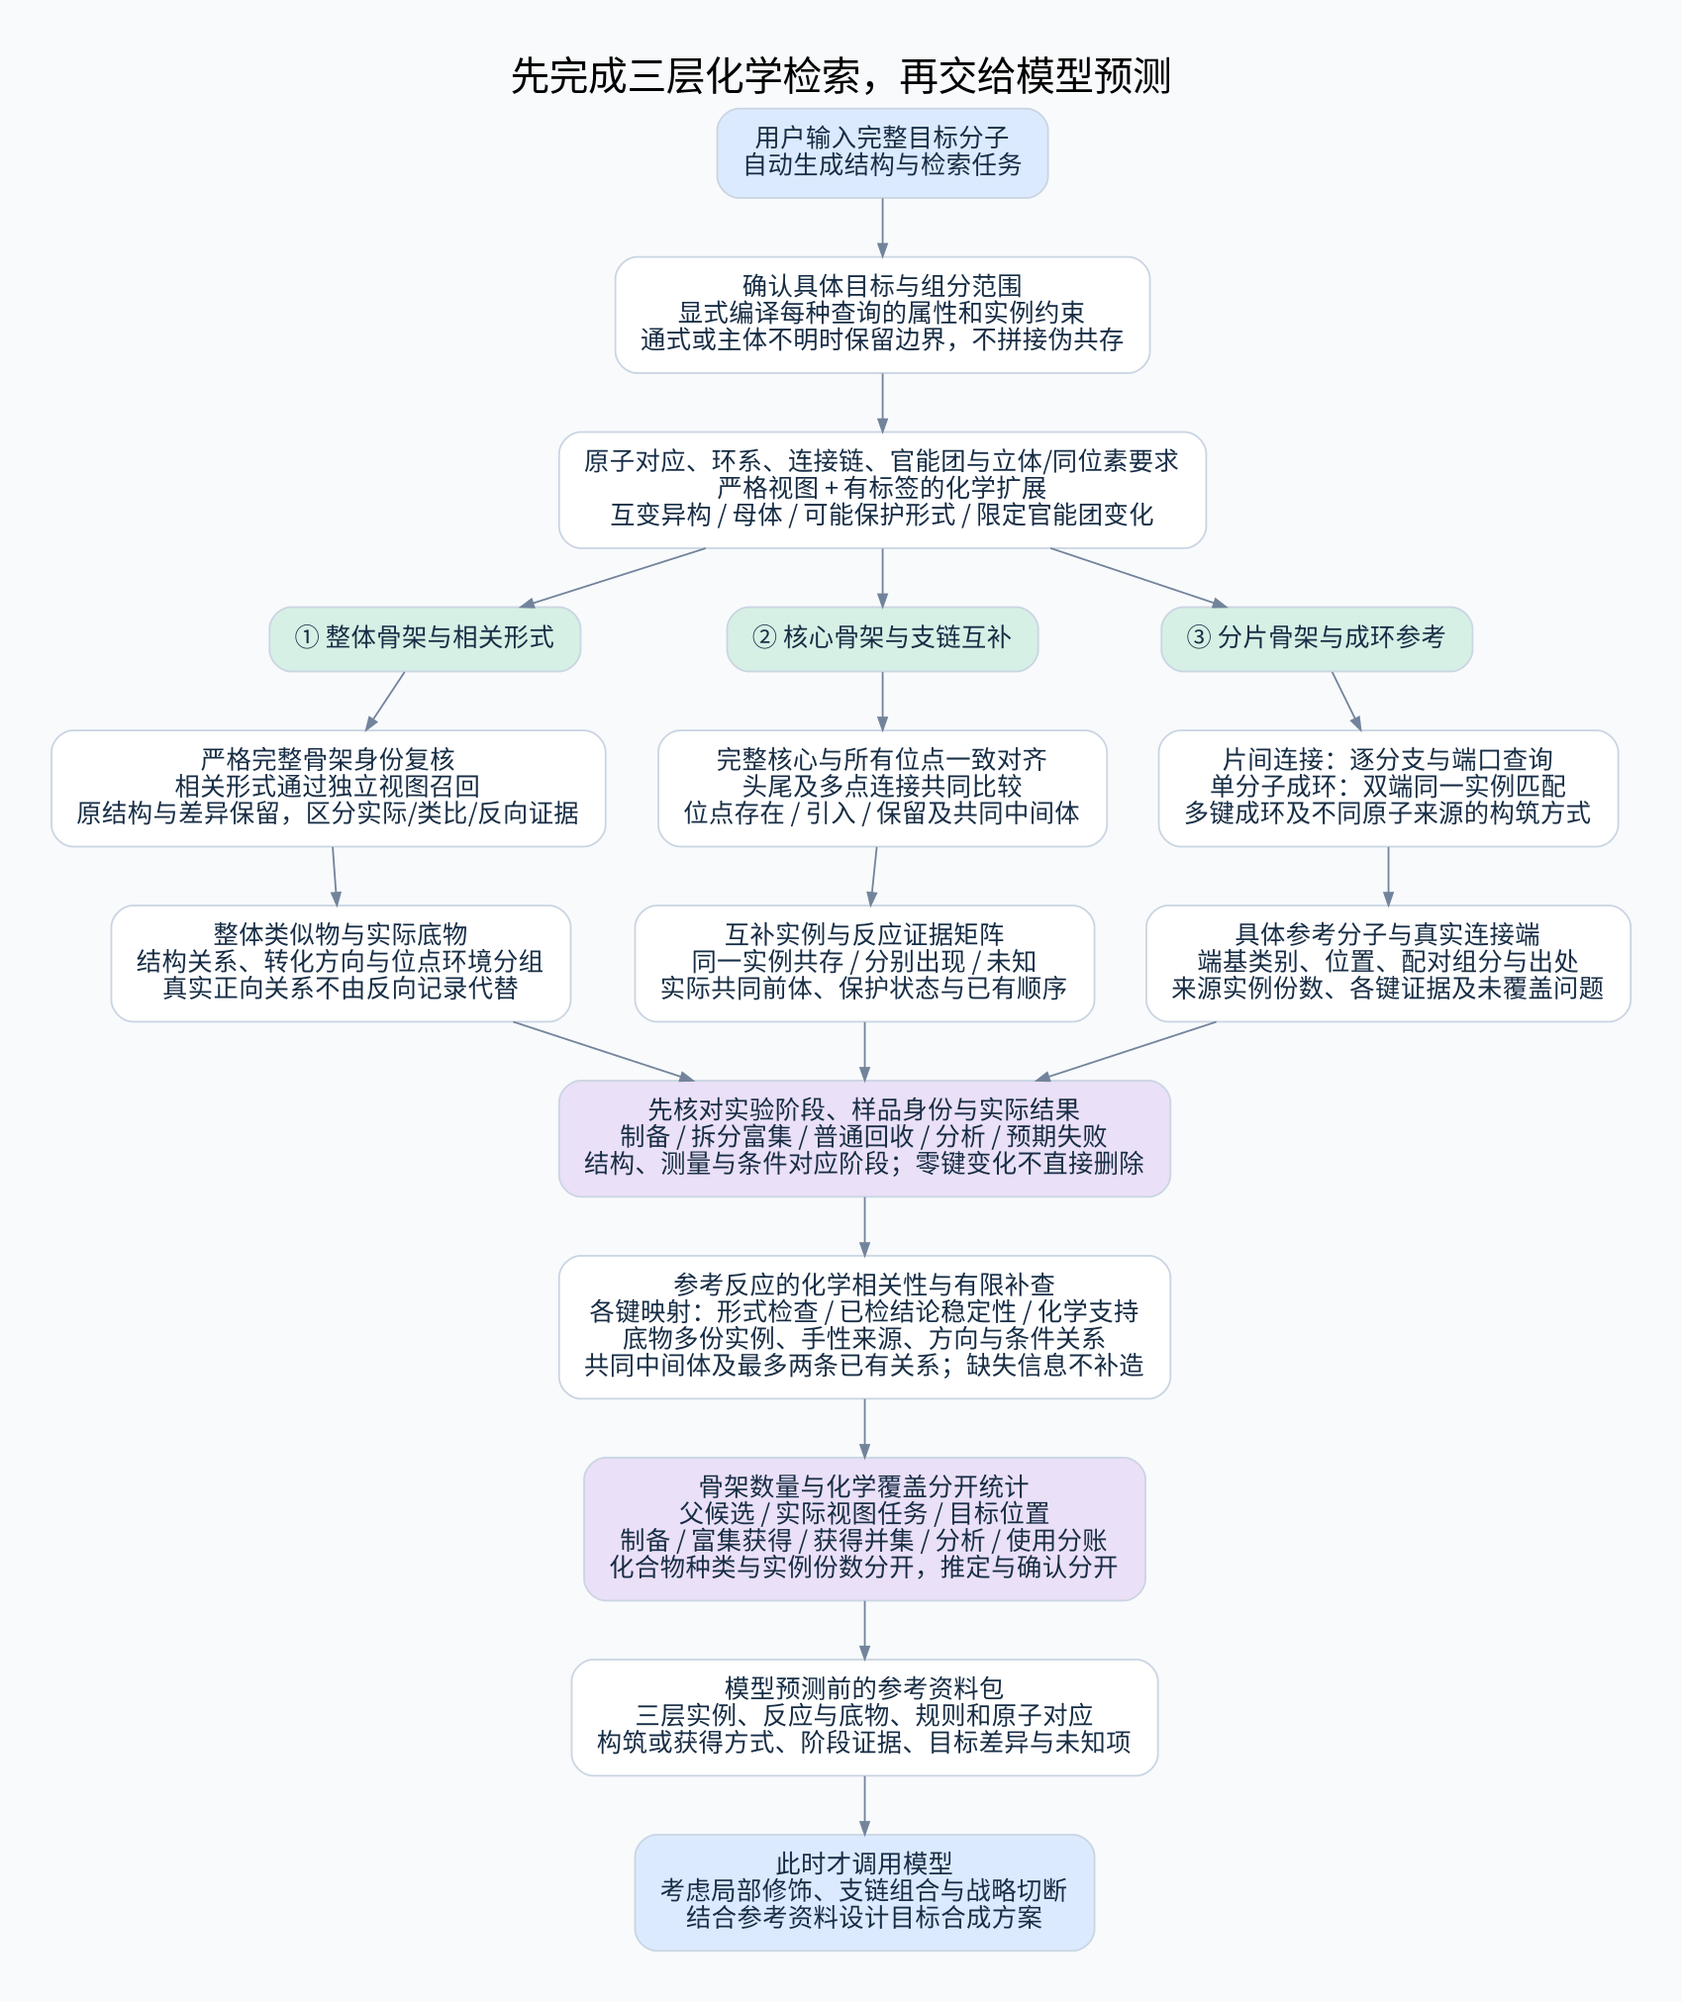
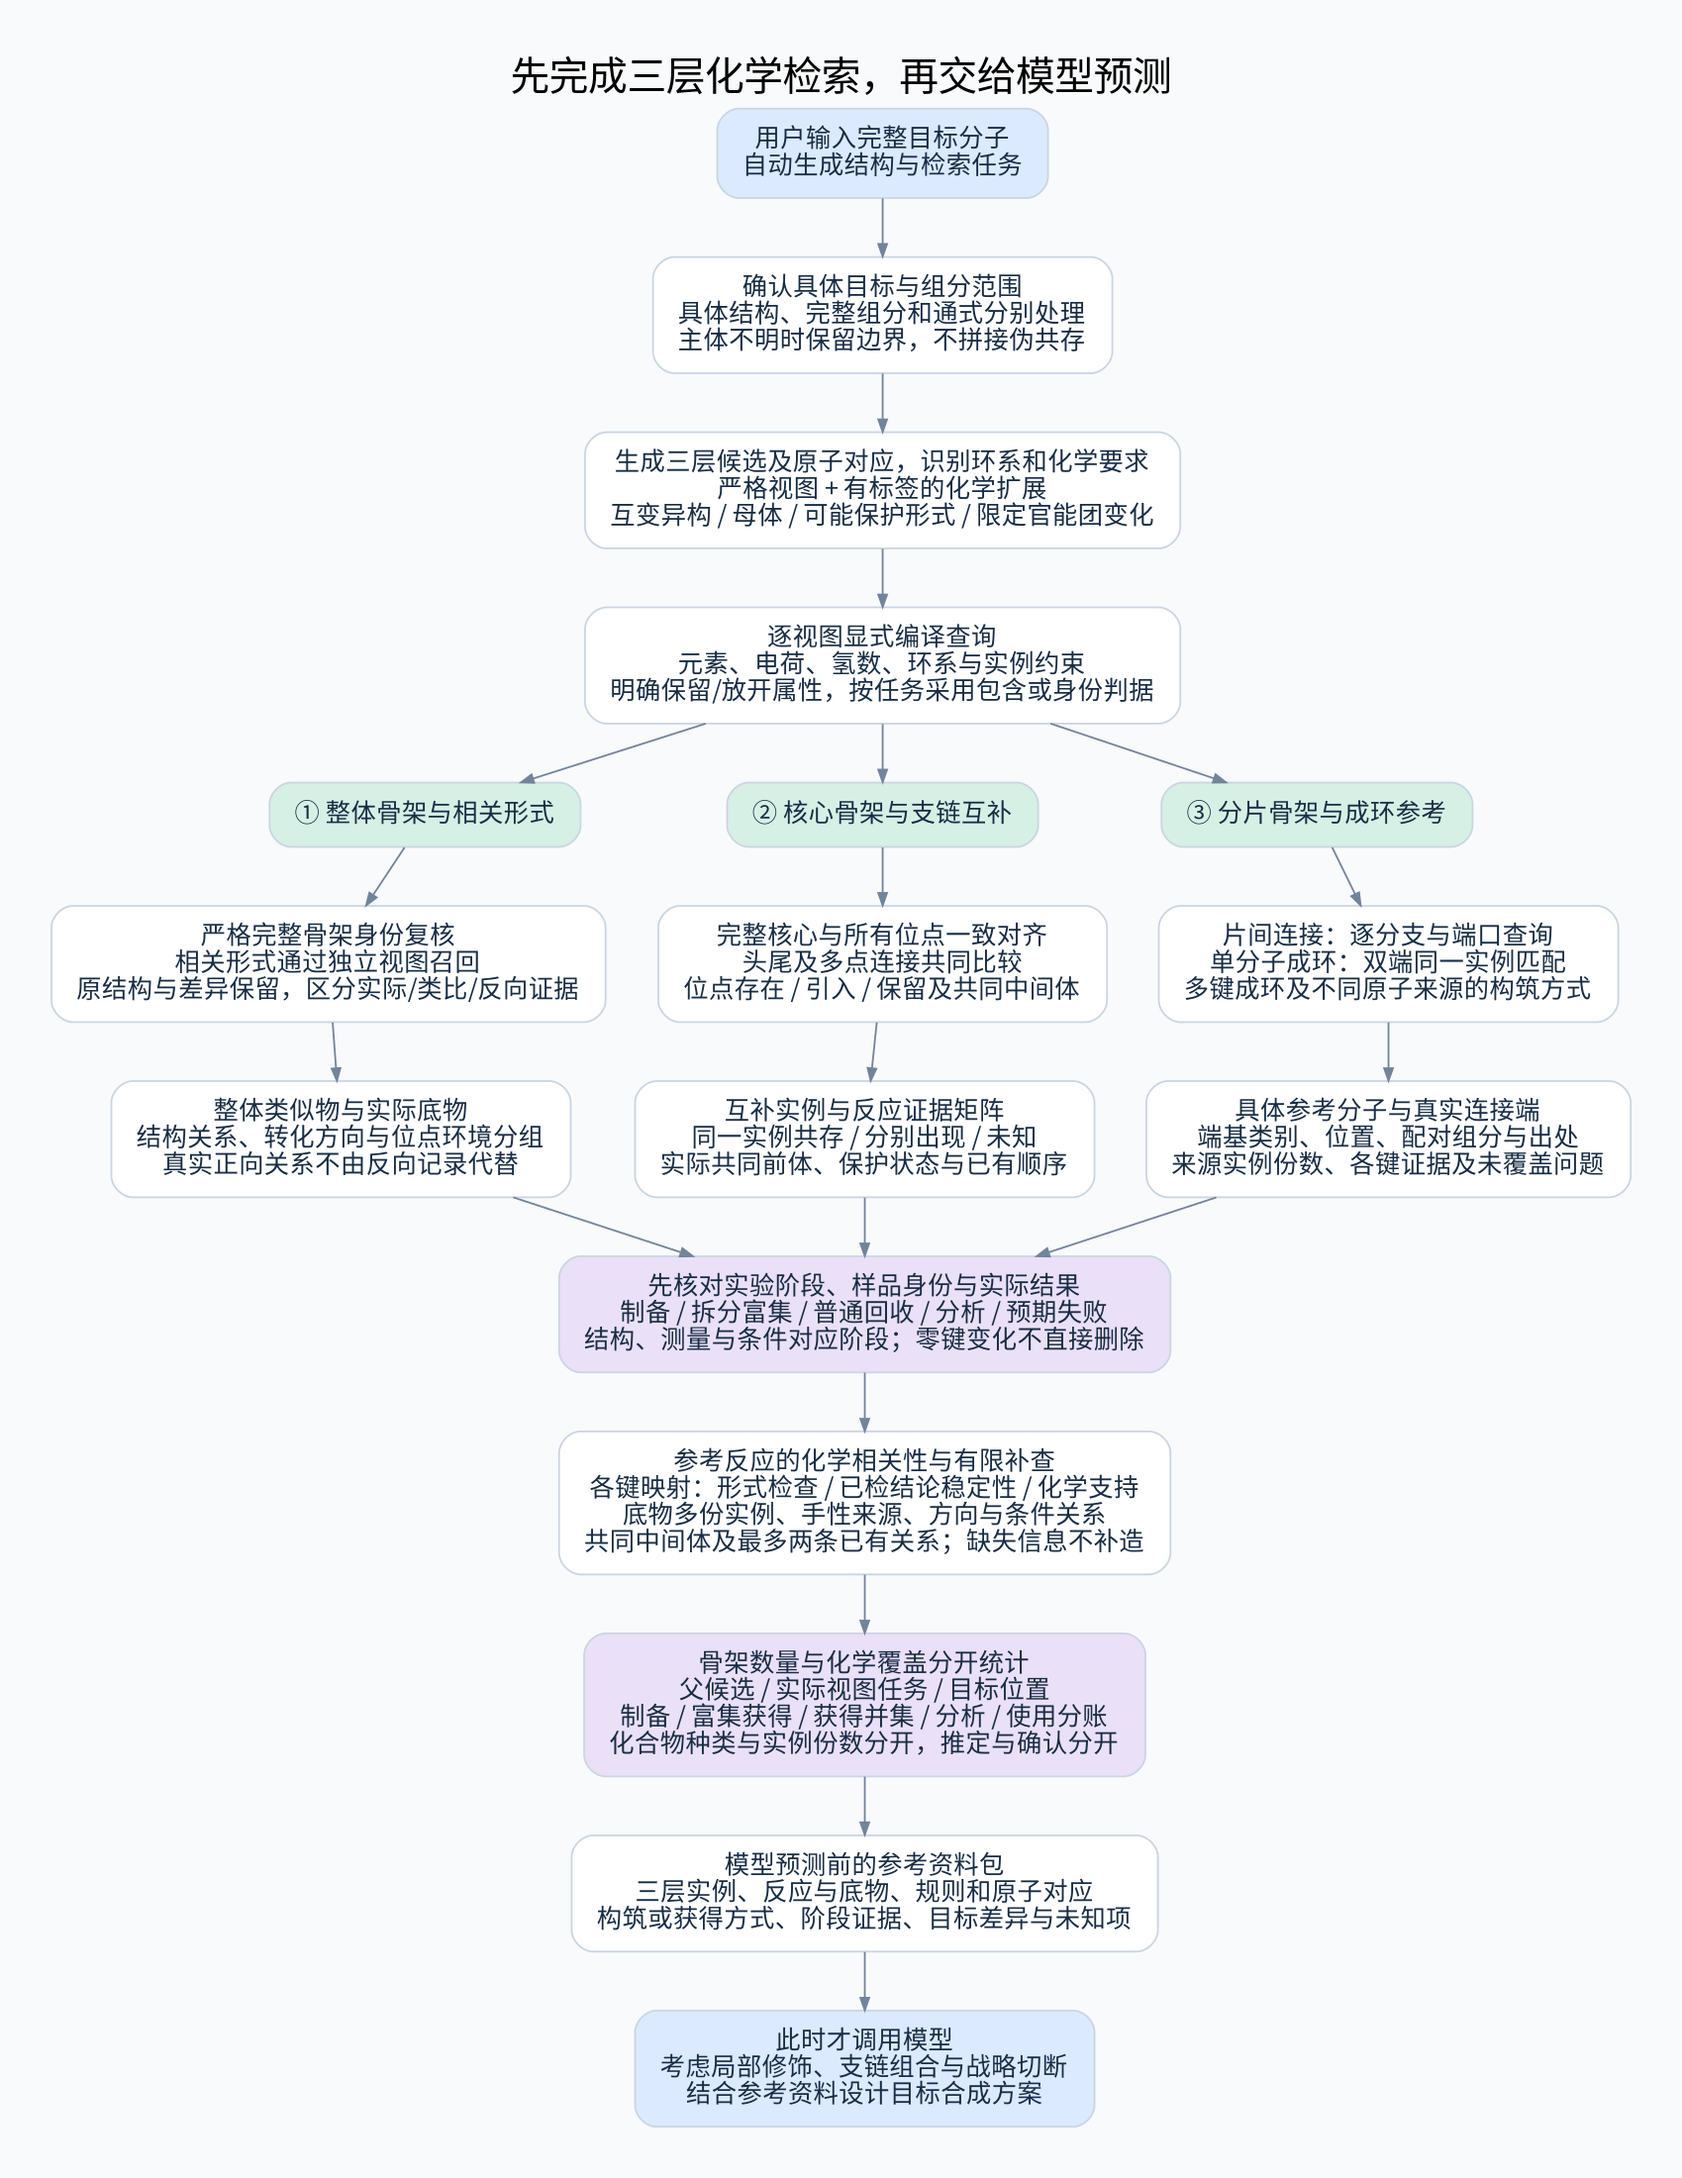
文档（第六轮审查）：完成对抗性审查并记录验证范围

Changed region(s): [[0.0312, 0.0311, 0.967, 0.9654]]

diff --git a/diagrams/build_pre_prediction_design.py b/diagrams/build_pre_prediction_design.py
@@ -15,7 +15,7 @@ BASE
 label="先完成三层化学检索，再交给模型预测";
 a [label="用户输入完整目标分子
 自动生成结构与检索任务", fillcolor="#DBEAFE"];
-b [label="原子对应、环系、连接链、官能团与立体/同位素要求
+b [label="生成三层候选及原子对应，识别环系和化学要求
 严格视图 + 有标签的化学扩展
 互变异构 / 母体 / 可能保护形式 / 限定官能团变化"];
 g [label="① 整体骨架与相关形式", fillcolor="#D6F0E5"];
@@ -56,9 +56,10 @@ pack [label="模型预测前的参考资料包
 model [label="此时才调用模型
 考虑局部修饰、支链组合与战略切断
 结合参考资料设计目标合成方案", fillcolor="#DBEAFE"];
-input_scope [label="确认具体目标与组分范围\n显式编译每种查询的属性和实例约束\n通式或主体不明时保留边界，不拼接伪共存"];
+input_scope [label="确认具体目标与组分范围\n具体结构、完整组分和通式分别处理\n主体不明时保留边界，不拼接伪共存"];
 a -> input_scope -> b;
-b -> g; b -> c; b -> f;
+compiled [label="逐视图显式编译查询\n元素、电荷、氢数、环系与实例约束\n明确保留/放开属性，按任务采用包含或身份判据"];
+b -> compiled; compiled -> g; compiled -> c; compiled -> f;
 g -> g1 -> g2;
 c -> c1 -> c2;
 f -> f1 -> f2;
@@ -88,7 +89,7 @@ fg [label="限定官能团变化
 如环酮与环醇
 仅放宽规则指定的局部结构", fillcolor="#D6F0E5"];
 match [label="逐视图显式编译电荷、氢数和组分约束
-独立执行相容的筛选、匹配与完整身份复核
+独立筛选，按任务复核核心包含或完整身份
 不能先用严格筛选排除扩展候选
 目标与参考在相同语义下比较"];
 back [label="映射回真实记录

diff --git a/design/implementation_readiness.md b/design/implementation_readiness.md
@@ -1,0 +1,39 @@
+# 本次审查后的实施与验证状态
+
+当前设计允许进入实现和样本评测阶段，不等于系统已达到化学完备或生产可用。
+
+## 已确认的设计约束
+
+- 模型只接收三层检索与证据整理完成后的资料包，检索不依赖其先提出合成假设。
+- 具体分子、组分、通式、严格谓词和扩展查询分开处理。
+- 每个阳性结论有具体见证；结构关系、实际结果、化学贡献和执行状态不混用。
+- 支链、分片与成环约束保留联合映射、全部分支和真实端口。
+- 映射推定、来源份数、手性获得方式及实验阶段有明确未知和争议状态。
+- 排名、调度和计数有原型配置及范围标签，超时与截断不能变成全量无命中。
+
+## 已执行的验证
+
+五个 RDKit 探针脚本运行成功：既往 7、4、3 组局部示意，本次增加 3 个查询语义检查和 2 个组分匹配加 1 个通式检查。它们的单位与覆盖范围不同，不汇总为检索正确率。
+
+五张流程图已渲染；本次改变的总览和召回图已视觉检查。Markdown 链接、详细章节引用、围栏、SVG XML 及 Git 空白/对象检查通过。
+
+10 个证据状态场景和未实测预算配置完成格式/约束检查。没有证据抽取器或检索引擎，未将它们标为行为测试通过。
+
+## 尚需实测的项目及关闭条件
+
+| 项目 | 当前状态 | 实现后的关闭条件 |
+|---|---|---|
+| 规则与查询编译完整性 | 只有语义契约和局部反例 | 所有启用规则正反例通过；与相同语义全扫描一致 |
+| 实际证据抽取 | 未实现 | 每种结果/阶段/来源角色有人工标注，严重误判场景无误报 |
+| 反应原子对应 | 只有局部探针与证据分层要求 | 复杂例与争议例验证，推定范围和未知状态准确 |
+| 三层相关性 | 未收集真实目标标注集 | 按调度约定从至少 12 个具体目标起步，独立复核分歧 |
+| 速度与资源预算 | 配置未实测 | 在实际候选规模上报告耗时、截断率、各通道覆盖及参数选择 |
+| 对模型的合成帮助 | 未做下游对照 | 固定模型与输入长度，比较有无参考，并检查错误证据传播 |
+
+不以继续增加文字规则代替这些工作。上述验证没有完成前，不对外宣称“完美召回”“路线可靠”或确定成功率。
+
+## 本轮停止依据
+
+本次已完成 6 轮，低于用户给定的 10 轮上限。最后一轮针对主要已知失败场景和跨文件流程审查，修正了图中查询编译出现过早及包含/身份语义含混的问题。剩余事项集中在实现、真实标注和测量；本次没有证据支持再增加新的化学规则能直接解决它们。
+
+后续若出现新的具体反例，可开新轮修订并提交；本次停止不代表所有可能的化学边界已穷尽。

diff --git a/audits/round-06-final-review.md b/audits/round-06-final-review.md
@@ -1,0 +1,16 @@
+# 第 6 轮：对抗场景与最终一致性
+
+审查覆盖：目标具体性、跨组分伪共存、电荷/H 谓词、实验冲突、独立成功/失败、普通回收、映射争议、原子来源份数、成环多端口、阶段测量、截断与任务范围。
+
+发现并修正：总览图把“编译每种查询”写在候选结构生成之前，存在执行顺序歧义；召回图的“完整身份复核”容易被误读为所有核心查询都要求完整分子相同。现改为输入范围检查、生成候选、逐视图编译、按任务复核包含或完整身份。
+
+修订：补入 8 个对应验收场景，详细清单共 55 项；主计划同步计数。新增 [实施准备状态](../design/implementation_readiness.md)，逐项注明已验证的局部行为、未实现的引擎功能及真实评测门槛。
+
+执行验证：
+
+- 既往 3 个与本次 2 个 RDKit 探针脚本全部运行成功；报告未出现意外差异。
+- 10 个证据场景只做格式检查，预算配置只做约束检查，未冒称引擎行为或性能验证。
+- 文档链接、章节号、围栏、5 张 SVG、Git diff 空白与 Git 对象完整性检查通过。
+- 总览和召回图视觉检查；本轮修正后重新渲染。
+
+结论：本轮所检查的已知关键矛盾已处理，执行顺序保持模型预测前检索。剩余质量问题须用实现和真实资料标注检验；不能据此宣称化学完美。本次停止于第 6 轮，避免用更多文字修订冒充实测进展。

diff --git a/design/specification.md b/design/specification.md
@@ -798,6 +798,14 @@ SMARTS 用来描述原子、键、环、氢数等条件。`*` 仅表示一个任
 | 相反构型但零重原子键编辑 | 仍识别立体差异；不能作为无效重复结构删除 |
 | 后处理产生最终分离形式 | 标注阶段和实际条件；未知中间体不补造 |
 | 取样后衍生化测 ee，或分离前直接取样 | 测量结构和原产物有据关联，分析条件不归入主反应，不补造分离节点 |
+| 普通中性分子作为查询意外命中醇盐/醚 | 编译明确电荷/H/邻接谓词，并以反例检查 |
+| 通式含通配原子但解析成功 | 不归为明确完整目标或具体制备产物 |
+| 核心片段散在不同组分 | 不算同一分子中的连通核心或位点共存 |
+| 同一实验同一事实有未解阳性/阴性冲突 | 保留冲突，不挑选阳性陈述计合格制备 |
+| 同一实验先列预期结构后报告未观察到 | 按阶段区分，不制造虚假事实冲突或制备成功 |
+| 独立实验有成功也有失败 | 保留各自条件；至少一个合格成功见证仍可计命中 |
+| 已命中但其他任务超时 | 显示已命中且结果不完整，数量为下界 |
+| 宽查询被更窄查询替代或规则未评估 | 窄查询完成不使原范围成为完整无命中 |
 
 ### 13.2 正确性与效用评测
 

diff --git a/plan.md b/plan.md
@@ -68,9 +68,11 @@
 
 ## 7. 验证与目前证据
 
-详细规范保留 47 项化学验收案例；本次审查另补查询语义、组分边界和 10 个证据状态场景。案例清单不等于引擎测试通过。
+详细规范现含 55 项验收案例，另有 10 个证据状态场景；本次增加的查询语义和组分边界有可重复的工具探针。案例清单不等于引擎测试通过。
 
 已有局部 RDKit 检查验证了部分表示和匹配行为。尚无真实目标标注集、完整检索引擎、全库性能或实验验证。首次人工评测按调度约定至少从 12 个具体目标起步，并在代表性数据上调优预算。
+
+本次最终结论、实测范围与剩余门槛见 [实施准备状态](design/implementation_readiness.md)。
 
 当前必须避免的严重误判：通式当具体分子、跨组分拼接、预期当制得、反向当正向、争议映射当确定成键、普通回收当构筑、截断当完整无命中。
 

diff --git a/audits/README.md b/audits/README.md
@@ -11,5 +11,8 @@
 | 3 | 证据与汇总契约 | audit-03 | [记录](round-03-evidence-contract.md) |
 | 4 | 调度、排名与评测可执行性 | audit-04 | [记录](round-04-scheduling.md) |
 | 5 | 主计划与详细规范整合 | audit-05 | [记录](round-05-document-consolidation.md) |
+| 6 | 对抗案例与最终一致性审查 | audit-06 | [记录](round-06-final-review.md) |
 
 仓库使用方式见 [Git 说明](../GIT_HISTORY.md)。设计与局部检查不代表完整引擎或真实召回效果已验证。
+
+本次完成 6 轮并结束，未使用全部 10 轮配额。设计状态及未实测事项见 [实施准备状态](../design/implementation_readiness.md)。
